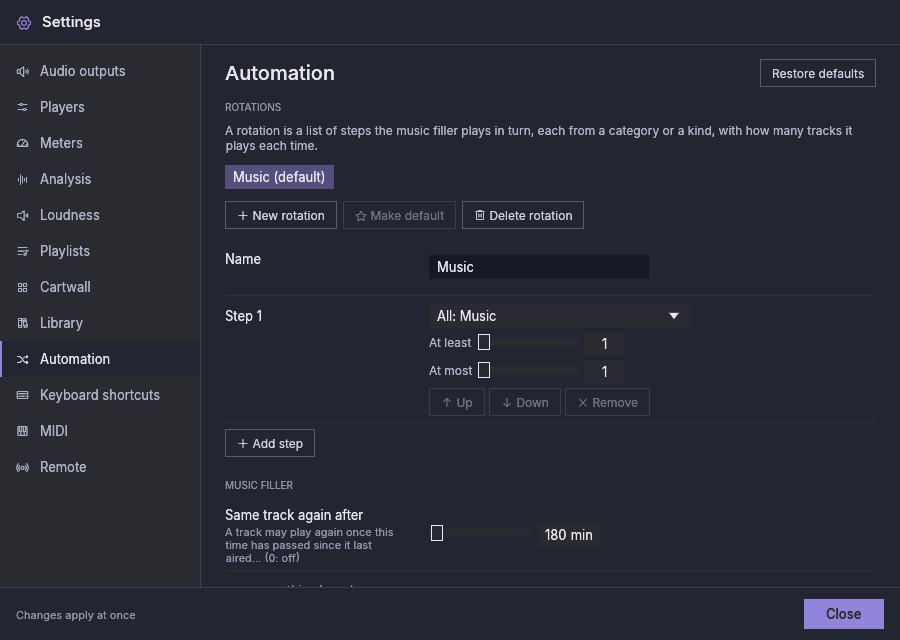
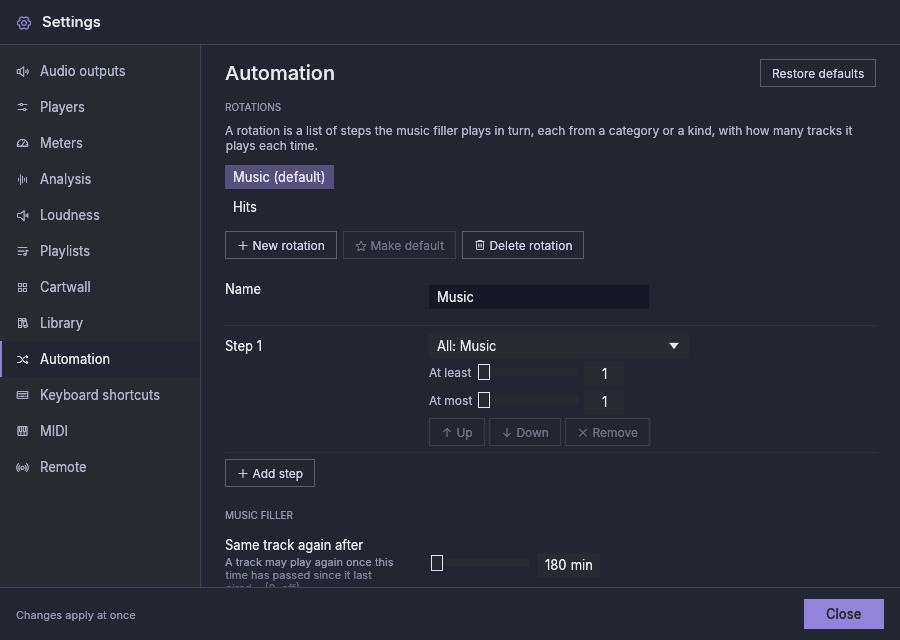
docs(user): screenshots of the schedule, its editor and the library's new parts
The automation guide had no picture of what it describes. The demo
session now builds a schedule (a block every hour with the station ID,
spots and a rotation, a weekend template, today's first block changed),
a second rotation, a track whose markers need review and an external
editor setting, and screenshots.sh takes the Schedule and Music columns
running and the editor's three tabs. The lists and the calendar depend on
the time of the run, so they are masked when comparing.

diff --git a/crates/fp-app/examples/demo_session.rs b/crates/fp-app/examples/demo_session.rs
@@ -2,6 +2,8 @@
 //! playlists filled with the audio files of a folder, with the first
 //! players paused mid-track some way into their playlist. The carts come
 //! from the shortest files, or from a second folder when one is given.
+//! Automation gets a second rotation and a schedule: a block every hour,
+//! a weekend template and two dates changed.
 //!
 //! `FAUSTE_HOME=/tmp/fp-demo cargo run -p fp-app --example demo_session -- <music folder> [cart folder]`
 
@@ -39,6 +41,8 @@ fn main() -> ExitCode {
     }
     let mut config = Config::default();
     config.players.count = 4;
+    // An editor set, so the track menu offers "Open in external editor".
+    config.library.external_editor = Some(PathBuf::from("/usr/bin/audio-editor"));
     let mut state = AppState::new(config, "Morning");
     let names = ["Afternoon", "Night"];
     for name in names {
@@ -137,6 +141,7 @@ fn main() -> ExitCode {
         },
     );
     library(&mut state, &files, &short);
+    automation(&mut state);
     let mut store = Store::new(paths, Limits::default());
     let saved = store.save_config(&state).and_then(|()| {
         store.save_state(
@@ -211,10 +216,227 @@ fn library(state: &mut AppState, songs: &[PathBuf], carts: &[PathBuf]) {
             },
         );
     }
+    // One song whose audio changed under its manual outro: the library
+    // shows it under "Markers to review" with the amber flag on its row.
+    let flagged = state
+        .library
+        .iter()
+        .find(|t| {
+            t.path
+                .file_stem()
+                .is_some_and(|s| s.to_string_lossy().ends_with("Coastline"))
+        })
+        .map(|t| t.id);
+    if let Some(track) = flagged.and_then(|id| state.library.get_mut(id)) {
+        track.markers_review = Some(fp_model::MarkersReview {
+            dropped: vec![fp_model::MarkerKind::OutroStart],
+        });
+    }
     let mut view = state.library_view.clone();
     if let Some(music) = music {
         view.selection = LibrarySelection::Category(music);
         view.expanded = vec![music];
     }
     let _ = fp_model::apply(state, Command::SetLibraryView(Box::new(view)));
+}
+
+/// The guide's automation screenshots: a "Hits" rotation beside the
+/// default one, a "Base" template with a block every hour (the hourly ID,
+/// spots, and the Hits rotation in the daytime), a "Weekend" template for
+/// Saturday and Sunday, and two dates changed: today's midnight block gets
+/// a third spot, and the date a week on uses the weekend template.
+fn automation(state: &mut AppState) {
+    use chrono::{Datelike, Duration, Local, Weekday};
+    use fp_model::local_time::TimeOfDay;
+    use fp_model::rotation::{RotationStep, StepSource};
+    use fp_model::schedule::{Block, Item};
+
+    let track = |state: &AppState, stem: &str| {
+        state
+            .library
+            .iter()
+            .find(|t| {
+                t.path
+                    .file_stem()
+                    .is_some_and(|s| s.to_string_lossy() == stem)
+            })
+            .map(|t| t.id)
+    };
+    let category = |state: &AppState, name: &str| {
+        state
+            .categories
+            .iter()
+            .find(|c| c.name == name)
+            .map(|c| c.id)
+    };
+    let station_id = track(state, "Jingle – Station ID");
+    let spots: Vec<_> = ["Spot – Riverside Bakery", "Spot – City Theatre"]
+        .iter()
+        .filter_map(|s| track(state, s))
+        .collect();
+    if let Some(id) = station_id {
+        let _ = fp_model::apply(
+            state,
+            Command::SetTracksKind {
+                tracks: vec![id],
+                kind: TrackKind::HourlyId,
+            },
+        );
+    }
+    let _ = fp_model::apply(
+        state,
+        Command::SetTracksKind {
+            tracks: spots.clone(),
+            kind: TrackKind::Ad,
+        },
+    );
+
+    fp_model::rotation::ensure_default(state, "Music");
+    let step = |category: Option<CategoryId>, min, max| {
+        category.map(|c| RotationStep {
+            source: StepSource::Category(c),
+            min,
+            max,
+        })
+    };
+    let steps: Vec<RotationStep> = [
+        step(category(state, "Pop"), 2, 3),
+        step(category(state, "Jingles"), 1, 1),
+        step(category(state, "Evening"), 1, 1),
+    ]
+    .into_iter()
+    .flatten()
+    .collect();
+    let _ = fp_model::apply(
+        state,
+        Command::CreateRotation {
+            name: "Hits".into(),
+            steps,
+        },
+    );
+    let hits = state
+        .rotations
+        .iter()
+        .find(|r| r.name == "Hits")
+        .map(|r| r.id);
+
+    fp_model::schedule::ensure_default(state, "Base");
+    let Some(base) = state.schedule.templates().first().map(|t| t.id) else {
+        return;
+    };
+    for hour in 0..24 {
+        let Some(start) = TimeOfDay::hms(hour, 0, 0) else {
+            continue;
+        };
+        let _ = fp_model::apply(
+            state,
+            Command::AddBlock {
+                template: base,
+                start,
+            },
+        );
+        let Some(id) = state
+            .schedule
+            .template(base)
+            .and_then(|t| t.blocks.iter().find(|b| b.start == start))
+            .map(|b| b.id)
+        else {
+            continue;
+        };
+        let mut items = Vec::new();
+        if let Some(track) = station_id {
+            items.push(Item::Track {
+                track,
+                time_critical: false,
+            });
+        }
+        if hour % 2 == 0 {
+            items.extend(spots.iter().map(|&track| Item::Track {
+                track,
+                time_critical: false,
+            }));
+        }
+        // The Hits rotation in the daytime, the default one at night.
+        let rotation = if (7..20).contains(&hour) {
+            hits
+        } else {
+            state.rotations.default_id()
+        };
+        if let Some(rotation) = rotation {
+            items.push(Item::Rotation { rotation });
+        }
+        let _ = fp_model::apply(
+            state,
+            Command::UpdateBlock {
+                template: base,
+                block: Block { id, start, items },
+            },
+        );
+    }
+    let _ = fp_model::apply(
+        state,
+        Command::DuplicateTemplate {
+            template: base,
+            name: "Weekend".into(),
+        },
+    );
+    if let Some(weekend) = state
+        .schedule
+        .templates()
+        .iter()
+        .find(|t| t.name == "Weekend")
+        .map(|t| t.id)
+    {
+        for weekday in [Weekday::Sat, Weekday::Sun] {
+            let _ = fp_model::apply(
+                state,
+                Command::SetWeekTemplate {
+                    weekday,
+                    template: weekend,
+                },
+            );
+        }
+        let mut holiday = Local::now().date_naive() + Duration::days(7);
+        if matches!(holiday.weekday(), Weekday::Sat | Weekday::Sun) {
+            holiday += Duration::days(2);
+        }
+        let _ = fp_model::apply(
+            state,
+            Command::SetDateTemplate {
+                date: holiday,
+                template: Some(weekend),
+            },
+        );
+    }
+    // Today's midnight block with one more spot, for that date only: the
+    // editor's Days tab opens on today and shows it first.
+    let today = Local::now().date_naive();
+    let midnight = TimeOfDay::hms(0, 0, 0);
+    let block = state
+        .schedule
+        .day(today)
+        .into_iter()
+        .find(|b| Some(b.start) == midnight);
+    if let (Some(block), Some(&spot)) = (block, spots.first()) {
+        let mut items = block.items.clone();
+        let at = items.len().saturating_sub(1);
+        items.insert(
+            at,
+            Item::Track {
+                track: spot,
+                time_critical: false,
+            },
+        );
+        let _ = fp_model::apply(
+            state,
+            Command::ChangeBlockOnDate {
+                date: today,
+                block: Block {
+                    id: block.id,
+                    start: block.start,
+                    items,
+                },
+            },
+        );
+    }
 }

diff --git a/docs/user/automation.md b/docs/user/automation.md
@@ -14,6 +14,8 @@ The **Schedule** column plays the day's **blocks**: groups of items with a
 start time (an hourly ID, spots, a programme). Show it from the
 **Schedule** tile on the top bar, as you show a player.
 
+![The Schedule column running, beside the Music column: the day's blocks by start time, each with its station ID (the clock marks it time-critical), spots and the rotation the music filler plays after it; the filler's song on air and the next ones](../images/guide/automation-columns.png)
+
 Its list is the schedule, grouped by block: each block's start time, then
 its items. It shows today, the last block of yesterday and the first of
 tomorrow. A block changed for one day says so. The item on air and the
@@ -40,6 +42,8 @@ in the same menu, lets the schedule choose by the time again.
 tabs, and **Rotations…** takes you to Settings → Automation, where
 rotations are made.
 
+![The schedule editor, Templates tab: the Base and Weekend templates on the left; Base's blocks on the right, each with its start, its items, Add from category and the rotation for the music after it](../images/guide/schedule-templates.png)
+
 - **Templates.** A template is a day of blocks; a new installation has
   one, "Base", for every day. Make, duplicate, rename or delete templates
   on the left; the chosen one's blocks are on the right. Type a block's
@@ -53,6 +57,9 @@ rotations are made.
   than the time to the next block, the block says by how much, in amber;
   you can still keep it so.
 - **Week plan.** Which template each weekday uses.
+
+  ![The Week plan tab: Base from Monday to Friday, Weekend on Saturday and Sunday](../images/guide/schedule-week.png)
+
 - **Days.** Pick a date on the calendar (dates with changes are amber).
   A date can use another template than its weekday's (a holiday on a
   Thursday can use the weekend's). Its blocks can be changed for that date
@@ -60,6 +67,8 @@ rotations are made.
   **Not on this day** removes a block from that date alone, and **Add
   block on this day** adds one. Later changes to the template still reach
   the blocks you did not change on that date.
+
+  ![The Days tab: the calendar with today chosen and the dates with changes in amber; today's first block has one more spot, marked "changed for this day", with Back to the template](../images/guide/schedule-days.png)
 
 ## The music filler
 
@@ -112,6 +121,10 @@ and how many it plays each time, as a range:
 With a range, a station ID comes after two songs one time and after three
 the next. One rotation is the **default**: a new installation has one,
 **Music**, which plays all your music.
+
+Rotations are made in Settings → Automation:
+
+![Settings, Automation: the rotations Music (the default) and Hits, the selected Music with its one step over all music, its counts At least and At most, and the music filler's rules](../images/guide/settings-automation.png)
 
 ## How it chooses
 

diff --git a/docs/user/library.md b/docs/user/library.md
@@ -7,7 +7,7 @@ and loudness settings. The library window lists them, groups them in
 cartwall. It is a window on the desktop and on a tablet; a phone shows the
 library in its **Library** tab instead (see [On a phone](#on-a-phone)).
 
-![The library window: the pre-listen strip with the selected track's waveform, the category tree with Music (its subcategories Pop and Evening) selected, and the table of its tracks with their category and kind](../images/guide/library.png)
+![The library window: the pre-listen strip with the selected track's waveform, meter and listening fader, the category tree with Music (its subcategories Pop and Evening) selected and Markers to review at the end, and the table of its tracks with their category and kind; Coastline carries the amber markers-to-review flag](../images/guide/library.png)
 
 ## Opening the window
 

diff --git a/docs/user/settings.md b/docs/user/settings.md
@@ -276,7 +276,7 @@ changes](library.md#when-a-file-changes).
 
 The [music filler's](automation.md) rotations and rules (not on Android).
 
-![Settings, Automation: the default rotation Music with its one step over all music, and the music filler's rules](../images/guide/settings-automation.png)
+![Settings, Automation: the rotations Music (the default) and Hits, the selected Music with its one step over all music, and the music filler's rules](../images/guide/settings-automation.png)
 
 - **Rotations:** the list, the default marked. **New rotation** adds one
   that plays all music, **Make default** makes the selected one the
